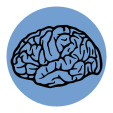
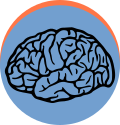
Visual depiction of rotation, modified rotation; now up right down left

diff --git a/js/other/viewport/creature.js b/js/other/viewport/creature.js
@@ -16,34 +16,9 @@ var Creature = function(x,y,level){
 			y: y
 		}
 	}, [
-		// new tree.action.turn(1),
-		// new tree.action.move(1),
-		// new tree.action.turn(0),
-		// new tree.action.move(1),
-		// new tree.action.sleep(5)
-		new tree.action.turn(0),
-	  new tree.action.move(1),
-		new tree.action.move(1),
 		new tree.action.turn(1),
-	  new tree.action.move(1),
 		new tree.action.move(1),
 		new tree.action.turn(2),
-	  new tree.action.move(1),
-		new tree.action.move(1),
-		new tree.action.turn(1),
-	  new tree.action.move(1),
-		new tree.action.move(1),
-		new tree.action.turn(0),
-	  new tree.action.move(1),
-		new tree.action.move(1),
-		new tree.action.turn(3),
-	  new tree.action.move(1),
-		new tree.action.move(1),
-		new tree.action.turn(2),
-	  new tree.action.move(1),
-		new tree.action.move(1),
-		new tree.action.turn(3),
-	  new tree.action.move(1),
 		new tree.action.move(1)
 	])
 
@@ -54,7 +29,13 @@ Creature.prototype.update = function() {
 }
 
 Creature.prototype.draw = function(c) {
-	c.drawImage(img,this.brains.properties.position.x*this.level.tileSize,this.brains.properties.position.y*this.level.tileSize,this.level.tileSize,this.level.tileSize);
-	console.log(this.brains.properties.position.x + ":" + this.brains.properties.position.y)
+	c.save();
+	// c.translate(this.brains.properties.position.x*this.level.tileSize,this.brains.properties.position.y*this.level.tileSize);
+	c.translate(this.brains.properties.position.x*this.level.tileSize+this.level.tileSize/2,this.brains.properties.position.y*this.level.tileSize+this.level.tileSize/2);
+	c.rotate(this.brains.properties.rotation*90 * (Math.PI / 180));
+	c.translate(-this.level.tileSize/2,-this.level.tileSize/2);
+	c.drawImage(img,0,0,this.level.tileSize,this.level.tileSize);
+	c.restore();
+
 }
 module.exports = Creature;

diff --git a/js/other/behaviour/modules/action.js b/js/other/behaviour/modules/action.js
@@ -12,13 +12,13 @@ module.exports = {
       properties.energy -= changedDist
       switch (parseInt(properties.rotation)) {
         case 0:
-          properties.position.y += changedDist
+          properties.position.y -= changedDist
           break
         case 1:
           properties.position.x += changedDist
           break
         case 2:
-          properties.position.y -= changedDist
+          properties.position.y += changedDist
           break
         case 3:
           properties.position.x -= changedDist

diff --git a/js/other/behaviour/creature.js b/js/other/behaviour/creature.js
@@ -11,7 +11,7 @@ class Creature {
 		for (var i = 0; i < this.behavior.length; i += 1) {
 			this.behavior[i].run(this.properties)
 			console.log(this.properties.log())
-	  }
+		}
 	}
 
 	behave () {
